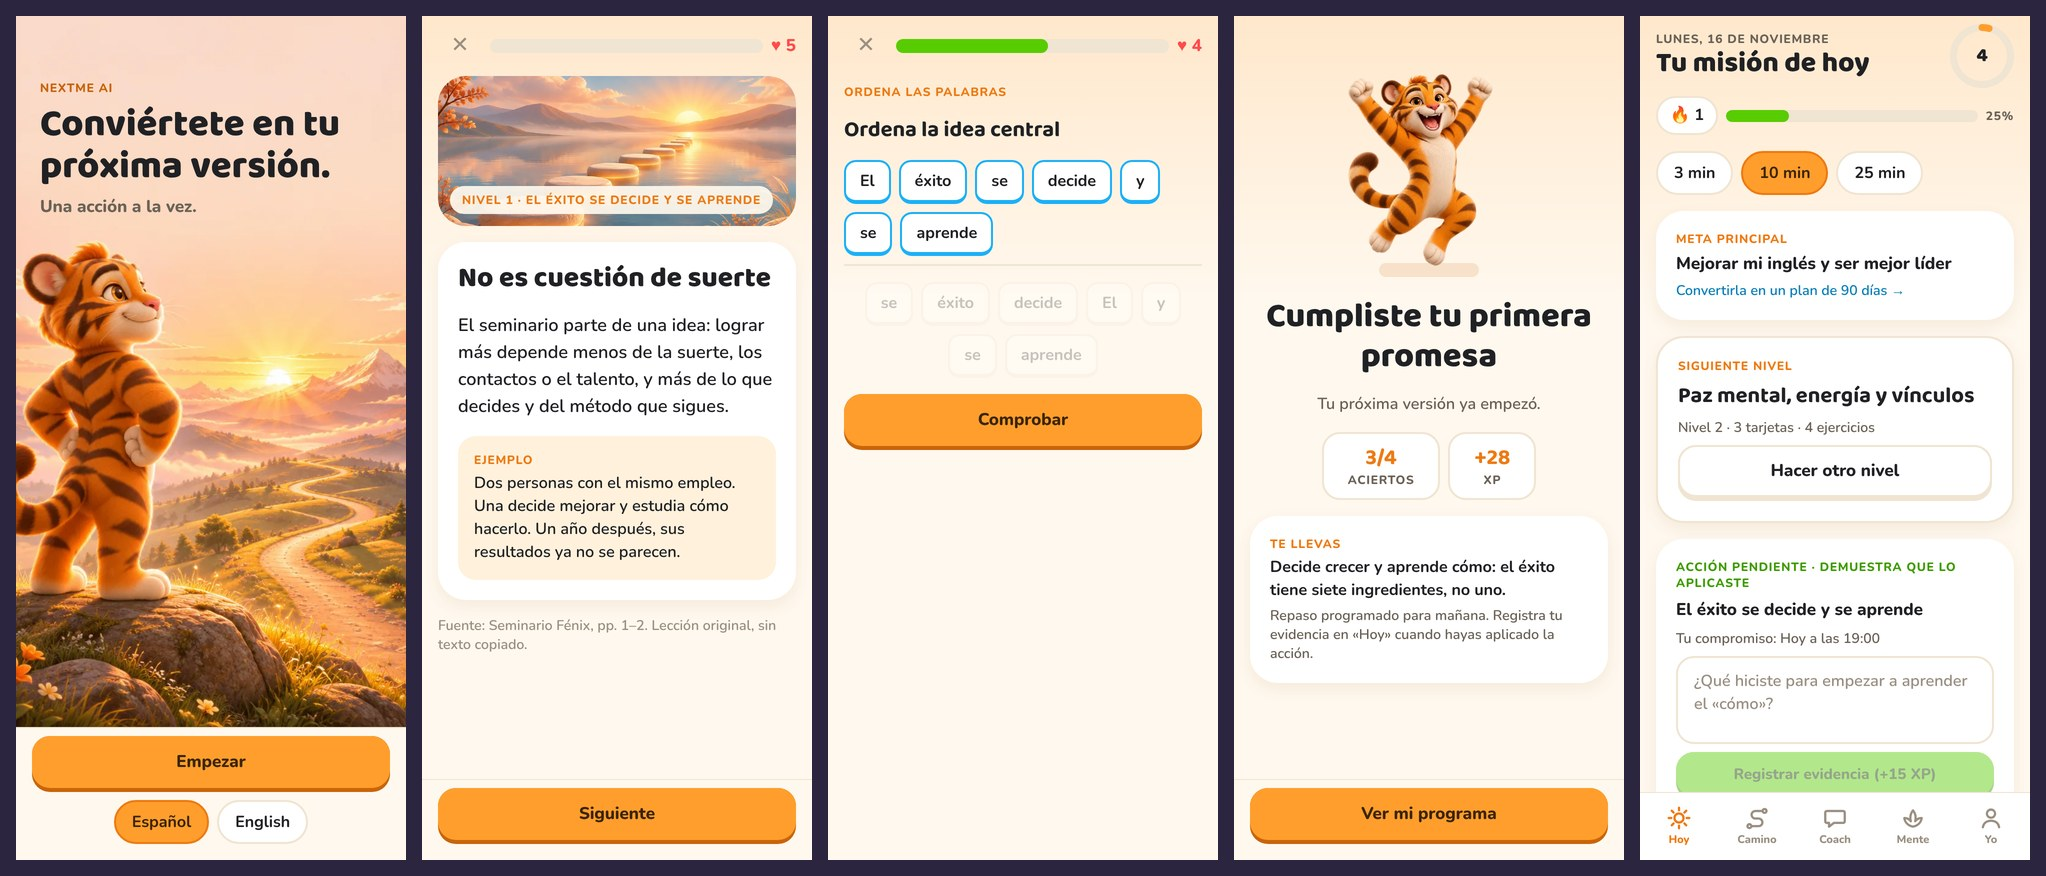
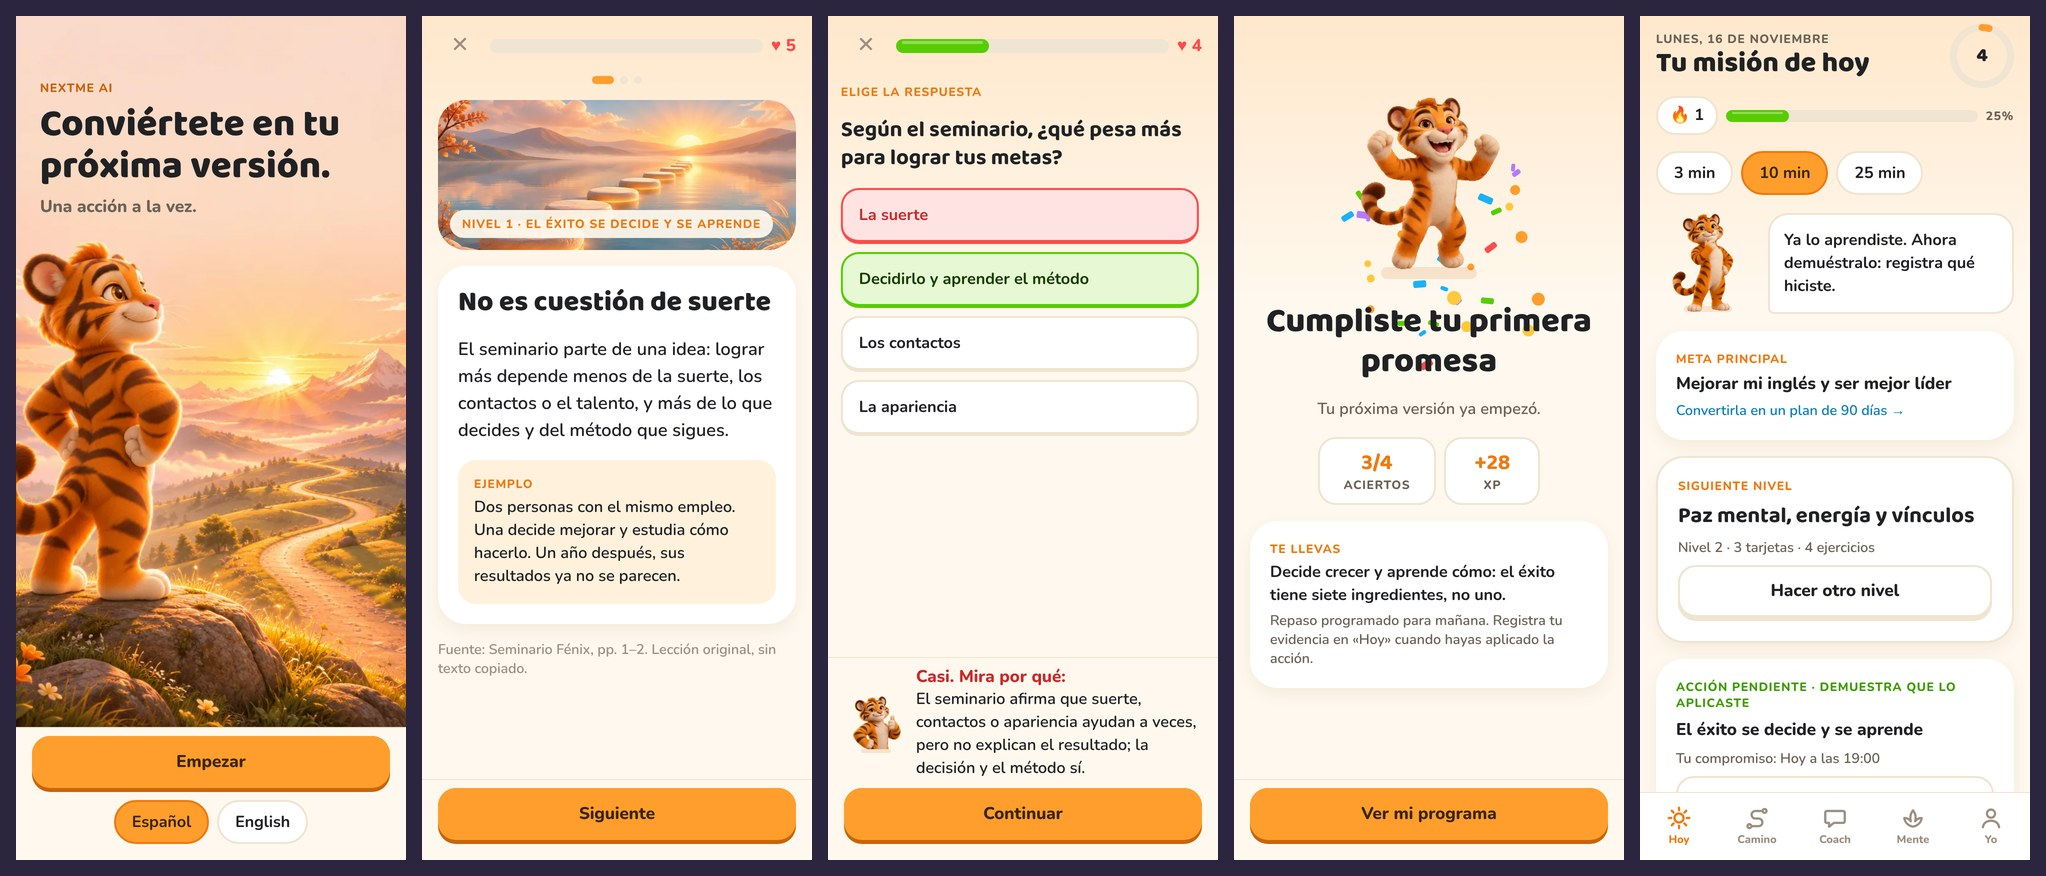
Update docs and screenshots for the complete program, animations and sounds
Claude-Session: https://claude.ai/code/session_011BcuEwGcUWArZmW2K8aFLb

diff --git a/docs/ASSET_LIBRARY.md b/docs/ASSET_LIBRARY.md
@@ -3,7 +3,7 @@
 All art was generated in this build session through the Higgsfield connector, verified (job reached `completed`, file downloaded and visually reviewed), optimised and bundled in the app.
 
 - **Model:** `gpt_image_2_6` (GPT Image 2.6) — chosen for reference-image consistency and native transparent backgrounds.
-- **Cost:** 0.25 credits per image × 25 images = **6.25 credits** (balance 56.5 → 50.25).
+- **Cost:** 0.25 credits per image or animation × 37 generations = **9.25 credits** (balance 56.5 → 47.25).
 - **Consistency:** every Rai image uses the master (`92763f5f…`) as `image_references`.
 - **Optimisation:** originals 1024 px PNG (~1.5 MB each) → WebP. Rai 512 px with alpha (~60 KB), chapters 960×537 (~60 KB), hero 880×1168 (~100 KB). Total bundled art ≈ 1.5 MB.
 
@@ -27,7 +27,26 @@ Shared prompt prefix: *"Same tiger character Rai exactly as in the reference ima
 
 Master prompt: premium 3D cinematic tiger, stylised but not babyish, orange gradient fur (#FFC97A→#FF9E2C→#EE7A12), brown stripes (#5B3A28), white muzzle, pink nose (#E5566F), amber eyes; intelligent, kind, determined, slightly playful; no clothing, text or logo; flat cream background.
 
-Animation is done in code (`src/components/Rai.tsx`: breathing scale, bounce, spring-in). No Rive/3D rig exists — a static image cannot be turned into one automatically.
+### Rai — looping animations
+
+Generated as native animated GIFs (12 frames, 384×384, transparent) with the master as reference, then converted to animated WebP (~110 KB each, 1.1 MB total). Shown with `expo-image`; the still image of the same state is used when the OS "Reduce Motion" setting is on.
+
+| Asset ID | File | Job ID | Motion | Used in |
+|---|---|---|---|---|
+| ANI-01 | `assets/rai/anim/idle.webp` | `0f72052f-c993-405d-9d79-4436ca58948b` | Breathing, blink, tail sway | Profile, default state |
+| ANI-02 | `assets/rai/anim/wave.webp` | `80dab929-5449-4709-89f4-92009d442673` | Waving hello | Onboarding |
+| ANI-03 | `assets/rai/anim/celebrate.webp` | `b96f9443-aff2-467a-9ae5-51cc9bb547c6` | Crouch and victory jump | Level complete |
+| ANI-04 | `assets/rai/anim/walk.webp` | `31a242e7-0374-45e6-ad7d-3ce139601d00` | Marching forward | Journey (current level), building the program |
+| ANI-05 | `assets/rai/anim/clap.webp` | `5007e6bf-bdbe-4911-a034-69aad5a65470` | Clapping | Correct answer, practice saved |
+| ANI-06 | `assets/rai/anim/thinking.webp` | `8dbc323a-66f4-49d2-9a14-948af3a7f98e` | Tapping chin | Reflect step, coach, evidence nudge |
+| ANI-07 | `assets/rai/anim/breathing.webp` | `35410085-fbb6-4c0b-983c-6c0b4de89cc1` | Meditating, slow breath | Mind Studio, timers |
+| ANI-08 | `assets/rai/anim/levelup.webp` | `f5247c51-c1d3-4527-ab3f-94706846742d` | Raising a gold star | Every 5th level |
+| ANI-09 | `assets/rai/anim/cheer.webp` | `fb1db47c-81f1-4a0e-9c82-fd39db11d503` | Beckoning "come on" | Today's nudge when the level is not done |
+| RAI-11 | `assets/rai/point.webp` | `9d924009-fbae-466a-8a8c-0532a8c680e8` | Still: pointing ahead | Reduce-motion fallback for ANI-09 |
+
+Generated but not used: a blink frame (`e8464055…`) and a still clapping pose (`432ec0ee…`), superseded by the animations.
+
+States without a frame animation (focus, encouraging, comeback) use their still with a soft code-driven bob (`src/components/Rai.tsx`). No Rive/3D rig exists — a static image cannot be turned into one automatically.
 
 ## Chapter environments (16:9)
 
@@ -61,7 +80,11 @@ Used on the Journey chapter headers and the first card of each level.
 
 | Asset | Why not yet | Direction to use |
 |---|---|---|
-| Motion clips (welcome, chapter unlock, milestone, program complete) | No video player is integrated; generating clips the app cannot play would spend credits for nothing. | Image-to-video from ONB-01 / RAI-06 / RAI-07, 3–4 s, slow push-in, loopable, 720p, no text. |
+| Cinematic video clips (welcome, chapter unlock, program complete) | Rai's looping animations cover the in-app motion; full-screen video would add weight and a player dependency. | Image-to-video from ONB-01 / RAI-06 / RAI-07, 3–4 s, slow push-in, loopable, 720p, no text. |
 | Onboarding concepts 2–5 (decisions, growth, habits, action) | Onboarding uses Rai's states instead; one hero was enough for a < 2 min flow. | Same 3:4 style as ONB-01 with the master reference. |
 | Store screenshots frames, launch cover, social creatives | Depend on final store copy and device frames. | Compose real app screenshots (`docs/screenshots/`) over CH-08 / ONB-01. |
 | Splash at full resolution | `splash-icon.png` is a 400 px derivative of RAI-02. | Regenerate RAI-02 at 2k if a larger splash is wanted. |
+
+## Sounds (not Higgsfield)
+
+The 11 interface sounds in `assets/sounds/` are synthesised by `scripts/make-sounds.py` (original tones, no samples; 136 KB total): tap, select, card, correct, wrong, check, xp, complete, levelup, bell, nudge. They share one pentatonic scale so they sound like a family, the "wrong" tone is deliberately soft, and they can be turned off in Profile → Sounds.

diff --git a/docs/QUALITY_REPORT.md b/docs/QUALITY_REPORT.md
@@ -6,10 +6,10 @@
 |---|---|---|
 | TypeScript strict | 0 errors | `npm run typecheck` |
 | ESLint (`expo lint`, React Compiler rules) | 0 problems | `npx expo lint` |
-| Unit + content tests | **57 / 57 pass** | `npm test` |
-| End-to-end in Chromium (exported web build, 390×844) | **18 / 18 steps pass**, 0 console errors | `npm run e2e` |
+| Unit + content tests | **158 / 158 pass** | `npm test` |
+| End-to-end in Chromium (exported web build, 390×844) | **19 / 19 steps pass**, 0 console errors | `npm run e2e` |
 | Database migration + Row Level Security | **18 / 18 checks pass** on PostgreSQL 16 | `npm run test:db` |
-| Web export | builds; 7.6 MB total, 1.1 MB entry JS, 1.5 MB art | `npm run export:web` |
+| Web export | builds; 6.3 MB total (2.1 MB JS including all 117 lessons, 2.7 MB art and animation, 0.14 MB sound) | `npm run export:web` |
 
 ## What the end-to-end run proves
 
@@ -21,14 +21,15 @@ Time from first screen to first win in the automated run: ~11 s (a person readin
 
 | Check | Result |
 |---|---|
-| Authored levels pass the validator (structure, bilingual, 3+ exercise types, action ≤ 5 min, pages cited) | 18 / 18 |
+| Levels pass the validator (structure, bilingual, 3+ exercise types, action ≤ 5 min, pages cited) | 117 / 117 |
 | No repeated titles or principles | ✓ |
 | Program map: sequential, unique ids, chapters in order | 117 levels, 12 chapters |
-| Transcript coverage by mapped levels | 204 / 211 pages (97 %) |
+| Transcript coverage by levels | 205 / 211 pages (97 %) |
+| Lessons short enough for a 3-minute level; caveats present on metaphysical, historical and health lessons | ✓ (unit tests) |
 | Practices sourced or labelled as complements | 14 / 14 |
 | Copy check detects verbatim source text | ✓ (unit test) |
 
-**How the lessons were grounded.** The full 211-page transcript was extracted and indexed by page; every law and exercise was located by search, and the passages behind the 18 authored levels and the practices were read directly. Blueprint rows were written from a per-page digest plus keyword index, so their page ranges are accurate to the section but their one-line principles should be re-read against the source when each level is generated (the generator receives the pages themselves).
+**How the lessons were grounded.** The full 211-page transcript was extracted and indexed by page. For every level, the key passage on its pages was located by search and read before writing (roughly 600 characters around each principle), and the lesson was then written as original text. This is targeted reading, not a line-by-line review of all 211 pages: named lists, steps and figures were checked against the passage, but a secondary detail in a card may come from the wider seminar tradition rather than that exact page. A human read-through of each chapter against the source is still advisable before commercial release.
 
 ## Problems found and fixed during QA
 
@@ -57,8 +58,9 @@ Time from first screen to first win in the automated run: ~11 s (a person readin
 
 ## Known gaps in scope
 
-- Levels 19–117 are mapped but not playable; published levels are not yet fetched from the database.
+- Levels generated later through the cloud pipeline are not yet fetched from the database (the 117 bundled levels need no server).
 - Vault accepts pasted text only (no PDF upload) and is on-device.
 - No paywall/purchases, share cards, server push, analytics or crash reporting.
-- No video/Rive motion; Rai is animated in code.
+- Rai's animations are 12-frame loops at 384 px (GIF-derived, 1-bit transparency edges); no video clips or rigged character.
+- Sounds were verified to load and trigger without errors in the browser run, but nobody has listened to them on a device: volume and character need a human ear.
 - Per-level personalisation of the action is a template using the user's goal, not an LLM rewrite.

diff --git a/docs/AI_SYSTEM.md b/docs/AI_SYSTEM.md
@@ -11,7 +11,7 @@ Two engines behind one interface (`askCoach` in `src/lib/coach/index.ts`). The a
 
 ## Knowledge base
 
-`src/lib/coach/kb.ts` builds **129 chunks × 2 languages**: every authored level (principle + cards), every blueprint principle, and every seminar practice. Each chunk carries: title, summary, body, **source pages**, chapter, kind, an action, a reflection question and a caveat where the teaching is not established science. All of it is original paraphrase — the transcript is never bundled or served to clients.
+`src/lib/coach/kb.ts` builds **129 chunks × 2 languages**: every level (principle + cards) and every seminar practice. Each chunk carries: title, summary, body, **source pages**, chapter, kind, an action, a reflection question and a caveat where the teaching is not established science. All of it is original paraphrase — the transcript is never bundled or served to clients.
 
 ## Answer contract (both engines)
 
@@ -42,7 +42,9 @@ So the user can always tell apart: what the seminar teaches, what the coach sugg
 
 Not enabled: server-side refusal fallbacks (`fallbacks`), because they need the beta endpoint and this function could not be exercised against the live API in the build environment. The local-coach fallback covers the same case for the user.
 
-## Content engine (levels 19–117)
+## Content engine (for future chapters)
+
+Levels 1–117 were written by hand in this repository and ship in the bundle. The pipeline below is the path for adding chapters later (for example from a user's own vault).
 
 ```
 blueprint row (title, principle, pages)          src/content/curriculum.ts
@@ -60,7 +62,7 @@ human review → status `published` → readable by the app
 
 The validator is the same file the unit tests run against the 18 authored levels (`src/lib/validateLevel.ts`).
 
-**Remaining wiring:** the app currently reads levels from its bundle. Loading `published` rows from the `levels` table into the Journey map is not implemented yet, so generated levels do not appear in the app until that fetch (or a bundle export step) is added.
+**Remaining wiring:** the app reads levels from its bundle. Loading `published` rows from the `levels` table into the Journey map is not implemented yet, so *generated* levels would not appear in the app until that fetch (or a bundle export step) is added.
 
 ## Ingestion
 

diff --git a/docs/PRODUCT_SPEC.md b/docs/PRODUCT_SPEC.md
@@ -24,7 +24,7 @@ Learning without applying is not full progress: *Application* is the largest com
 | 1 | RISEPRO vs NEXTME | One brand: **NEXTME AI**, tiger mascot **Rai**. RISEPRO contributes strategy only (goal architecture, daily loop, CEO review, score). | The brief asks for a single identity. |
 | 2 | "Not a course app" (RISEPRO) vs 100-level program (NEXTME) | The program is the spine, but every level ends in a real-life action and the home screen is *Today's Mission*, not the map. | Keeps the daily game without becoming a PDF-turned-course. |
 | 3 | Dark premium (RISEPRO tone) vs bright cream (NEXTME) | Bright cream + orange. | Explicit palette in the master prompt. |
-| 4 | "100+ levels" vs "no placeholder levels" | 117 levels are **mapped** to source pages; 18 are fully authored. The other 99 show as "in preparation" and become playable only after generation **and** validation. | Honest scope; no fake lessons. |
+| 4 | "100+ levels" vs "no placeholder levels" | All **117 levels are fully authored** (3 cards, 4 exercises, reflection, action, evidence prompt, ES + EN) and pass the validator. The blueprint/generator path stays for future chapters. | No fake lessons. |
 | 5 | Chapter structure | 12 chapters instead of the suggested 10, following the transcript's real order (time management, creativity and health each needed their own chapter). | The PDF is the authority on content. |
 | 6 | Sign-up | None required. Local-first; optional account only for backup. | First win in < 3 min, privacy by default. |
 | 7 | AI coach without a server | On-device retrieval + grounded composer ships now; the cloud coach (RAG + Claude) is a drop-in upgrade behind the same interface. | The app must be useful with zero credentials and offline. |
@@ -57,4 +57,4 @@ Shown with its formula in the app. It is an activity index — not a measure of 
 
 ## Not in this version
 
-Paywall and purchases · push from a server (only a local daily reminder) · share cards · leagues/friends · voice · PDF upload in the vault (paste text only) · video/Rive animation · analytics and crash reporting SDKs · levels 19–117 as playable content.
+Paywall and purchases · push from a server (only a local daily reminder) · share cards · leagues/friends · voice · PDF upload in the vault (paste text only) · video clips · analytics and crash reporting SDKs.

diff --git a/docs/DESIGN_SYSTEM.md b/docs/DESIGN_SYSTEM.md
@@ -40,7 +40,10 @@ Source of truth: [`src/theme/tokens.ts`](../src/theme/tokens.ts). Components: [`
 Every screen handles: loading (root spinner until fonts + storage hydrate), empty (`Empty`, or Rai with a next step), error (inline message; coach falls back to local), success (Rai + XP).
 
 ## Motion
-Press 120 ms · enter 320 ms · Rai breathing 2.2 s loop · celebration bounce 0.5 s · current-level pulse 0.9 s. All loops and entrances are disabled when the OS "Reduce Motion" setting is on.
+Press 120 ms · card and exercise slide-in (spring) · wrong answer shakes, right answer pops · progress bars spring to value · confetti burst and XP count-up on level complete · pulsing primary button and walking Rai on the current level · Rai frame loops ~1 s. Cards also respond to swipe. All loops, entrances and frame animations are replaced by their resting state when the OS "Reduce Motion" setting is on.
+
+## Sound
+Eleven short tones (tap, select, card, correct, wrong, check, xp, complete, levelup, bell, nudge) confirm actions; never used as the only signal, and switchable in Profile.
 
 ## Accessibility
 Touch targets ≥ 44 pt · roles and labels on every control (`button`, `radio`, `checkbox`, `progressbar`, `header`) · selected/checked/disabled states announced · feedback panel is a live region · colour is never the only signal (✓, ★, 🔒, text) · text contrast ≥ 4.5:1 for body.
